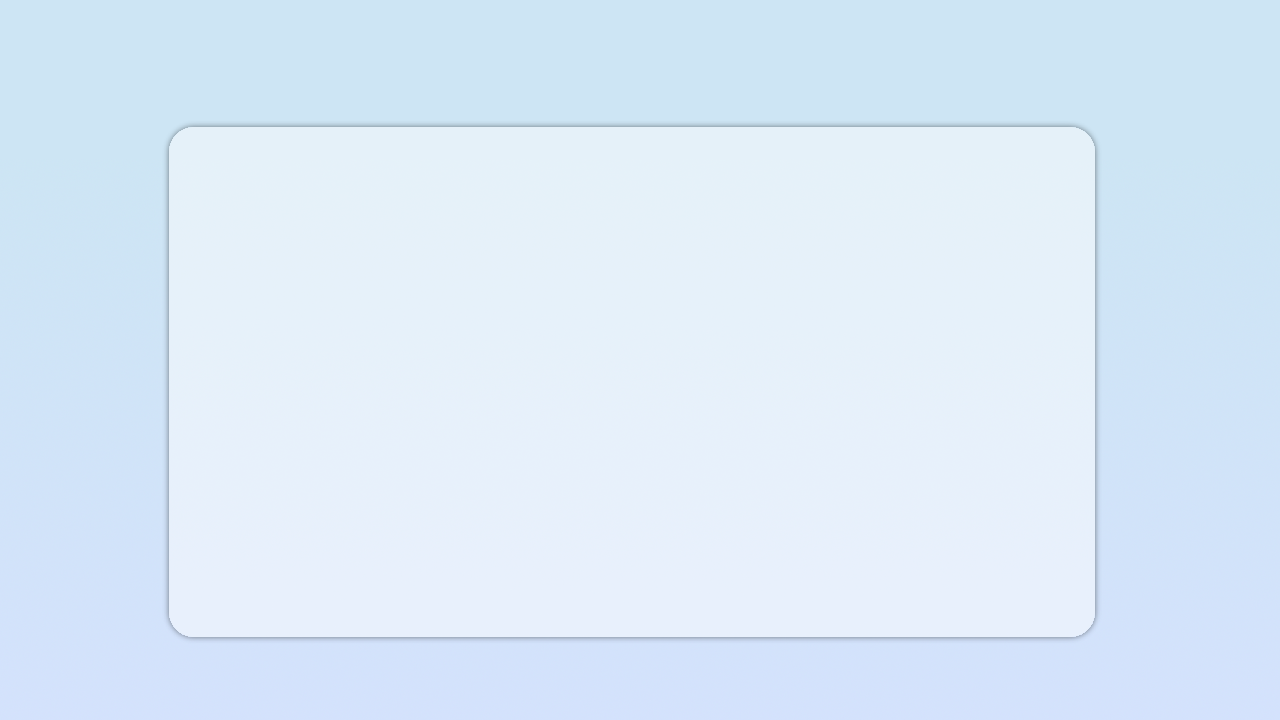
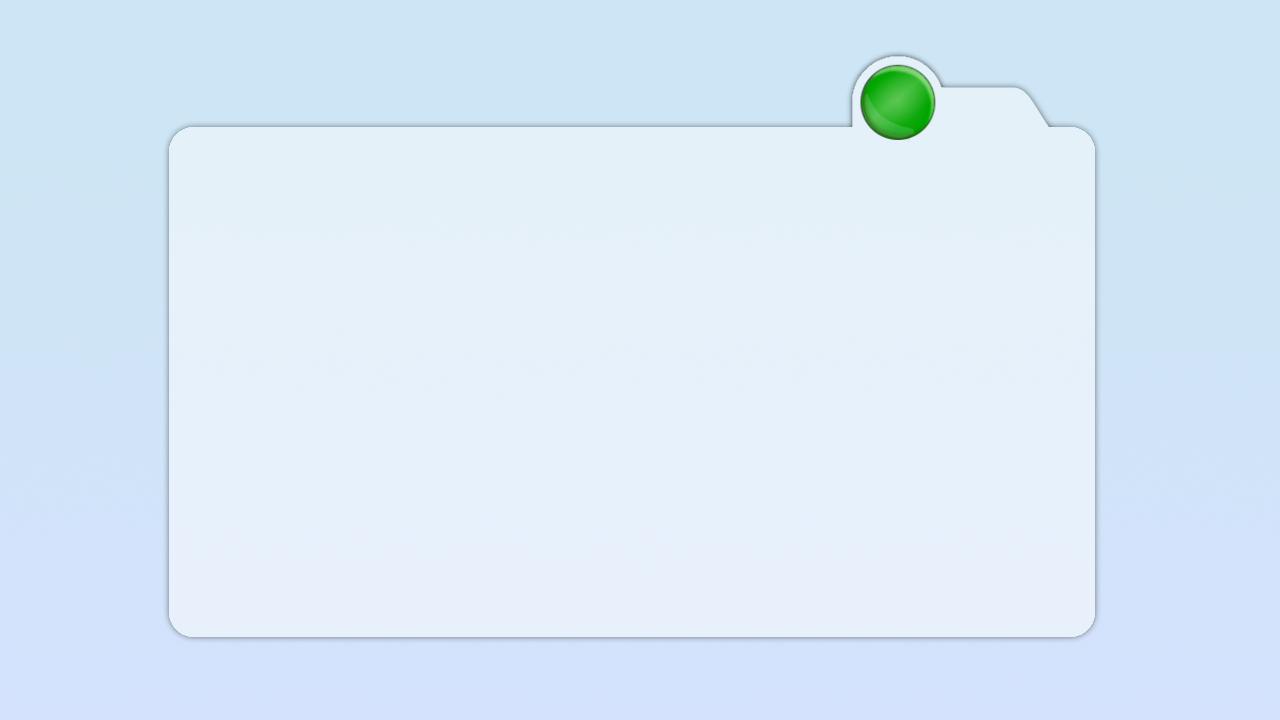
Added question counting

Changed region(s): [[0.6562, 0.0611, 0.8438, 0.2139]]

diff --git a/frame.py b/frame.py
@@ -59,6 +59,28 @@ class QuestionFrame(Frame):
 
         return surfs
 
+
+    """ Draws the current question number, and total questions, on the
+        screen. This also generates the text surfaces, so should only be run
+        once per frame. """
+    def draw_cur_num(self):
+        num = self.g.current_question + 1
+        total = len(self.g.question_set.questions)
+
+        #   Create text surfaces
+        cur_num_render = self.g.cur_num_font.render(str(num), 1,
+                                                    CUR_NUM_FONT_COLOR)
+        tot_num_render = self.g.tot_num_font.render("of " + str(total), 1,
+                                                    TOT_NUM_FONT_COLOR)
+
+        #   Draw them on the screen
+        self.g.screen.blit(cur_num_render,
+                           (int(897 - cur_num_render.get_width()/2),
+                            (int(101 - cur_num_render.get_height()/2))))
+        self.g.screen.blit(tot_num_render, (945, 98))
+        
+        
+
     """ Draws the text for the question on the screen """
     def draw_question(self, surfs):
         line_height = surfs[0].get_height()
@@ -91,6 +113,7 @@ class QuestionFrame(Frame):
 
         then = time.time()
         self.g.screen.blit(background, (0, 0))
+        self.draw_cur_num()
                            
         while True:
 

diff --git a/main.py b/main.py
@@ -51,6 +51,8 @@ class Globals(object):
         self.question_font = pygame.font.Font("fonts/" + QUESTION_FONT, QUESTION_FONT_SIZE)
         self.answer_font = pygame.font.Font("fonts/" + ANSWER_FONT, ANSWER_FONT_SIZE)
         self.submit_font = pygame.font.Font("fonts/" + SUBMIT_FONT, SUBMIT_FONT_SIZE)
+        self.cur_num_font = pygame.font.Font("fonts/" + CUR_NUM_FONT, CUR_NUM_FONT_SIZE)
+        self.tot_num_font = pygame.font.Font("fonts/" + TOT_NUM_FONT, TOT_NUM_FONT_SIZE)
 
         self.clock = pygame.time.Clock()
 
@@ -85,7 +87,7 @@ class Globals(object):
             screen = pygame.transform.scale(self.screen, WINDOW_SIZE)
         self.screen_commit.blit(screen, (0, 0))
         pygame.display.flip()
-        self.clock.tick(30)
+        self.clock.tick(50)
 
     """ Returns the position of the mouse on the screen """
     def mouse_pos(self):

diff --git a/constants.py b/constants.py
@@ -6,6 +6,7 @@
 BLACK = (0, 0, 0)                           #   Use constants for colors
 WHITE = (255, 255, 255)
 GREEN = (50, 180, 52)
+GRAY = (95, 115, 127)
 
 WINDOW_NAME = "Multiple Choice Test"
 WINDOW_WIDTH = 1280
@@ -38,6 +39,14 @@ ANSWER_FONT_COLOR_SELECT = WHITE
 SUBMIT_FONT = "Montserrat-Bold.otf"
 SUBMIT_FONT_SIZE = 25
 SUBMIT_FONT_COLOR = WHITE
+
+CUR_NUM_FONT = "Montserrat-Bold.otf"
+CUR_NUM_FONT_SIZE = 30
+CUR_NUM_FONT_COLOR = WHITE
+
+TOT_NUM_FONT = "Montserrat-Medium.otf"
+TOT_NUM_FONT_SIZE = 22
+TOT_NUM_FONT_COLOR = GRAY
 
 ALPHABET = "ABCDEFGHIJKLMNOPQRSTUVWXYZ"     #   This is important
 
